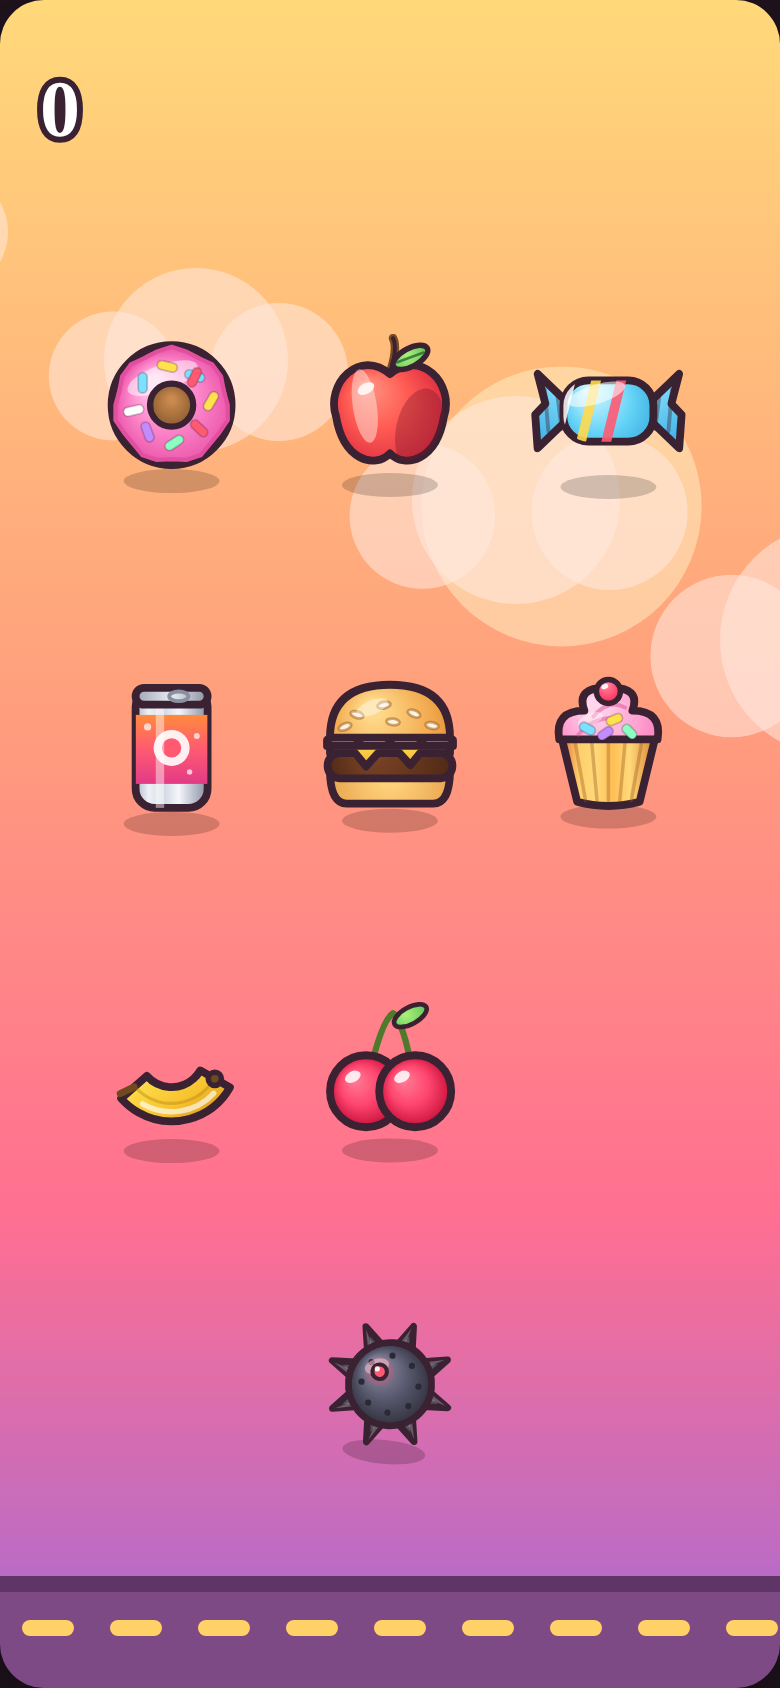
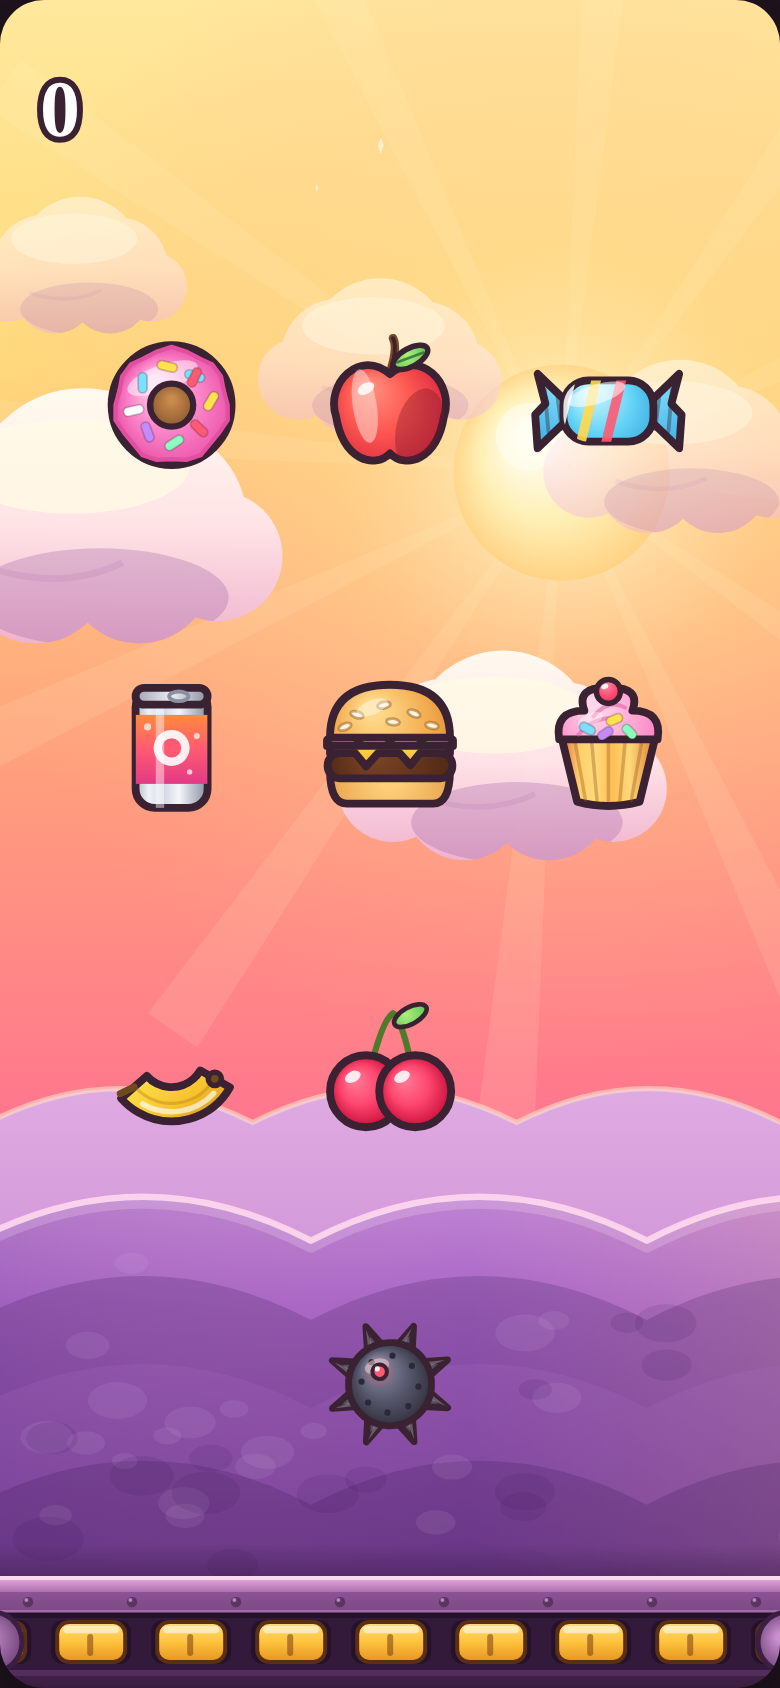
Hunger Hauler: remove ground drop-shadows on floating food/objects
Objects hover in open sky with no surface beneath them, so a hard contact
shadow was implying a ground that isn't there. Dropped the per-food cast
shadow (covers all 8 foods + the mine); kept the hauler's cyan hover-jet
glow, which is a diegetic engine effect, not a ground shadow. Refreshed the
progress-board after-shots to match the live game.

Claude-Session: https://claude.ai/code/session_01MS6EmRrwSKxf9zwYYY5b7G

diff --git a/hunger-hauler.html b/hunger-hauler.html
@@ -652,9 +652,7 @@
     ctx.save(); ctx.translate(f.x, y);
     if (f.eaten>0){ const s=1-f.eaten; ctx.scale(s,s); ctx.globalAlpha=s; }
     ctx.rotate(f.rot*0.3);
-    // soft shadow
-    ctx.save(); ctx.globalAlpha=0.18*(f.eaten>0?0:1); ctx.fillStyle='#000';
-    ctx.beginPath(); ctx.ellipse(0,f.r+8,f.r*0.8,6,0,0,7); ctx.fill(); ctx.restore();
+    // no ground shadow — food floats in open sky; the chunky outline carries it
     const r=f.r;
     const OW=r*0.13;                 // outline weight, scales with size
     ctx.lineJoin='round'; ctx.lineCap='round'; ctx.lineWidth=OW; ctx.strokeStyle=INK;
